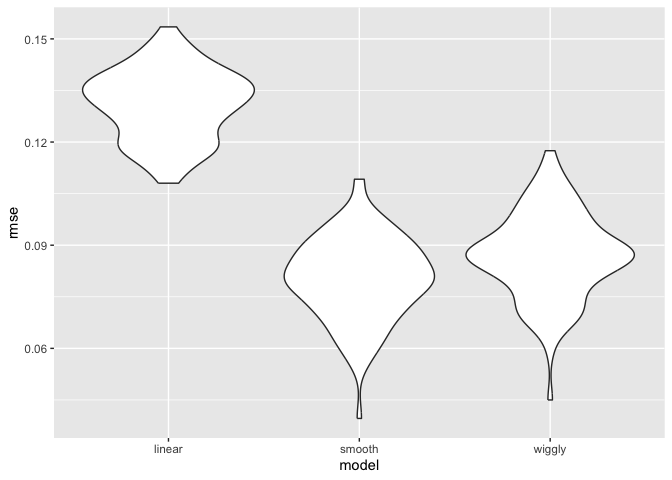
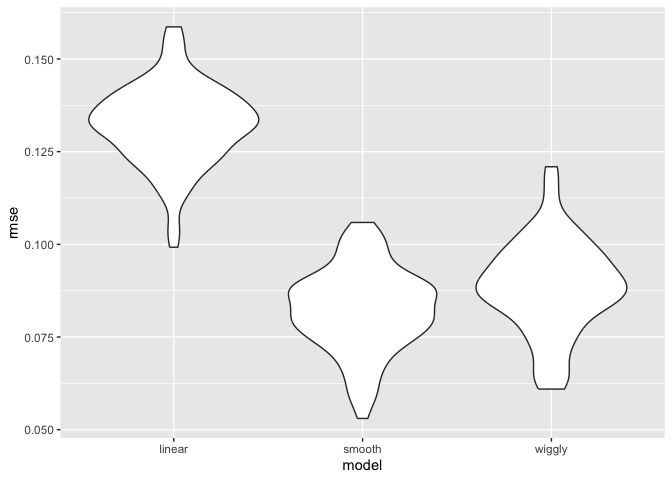
Annotated script with inline hash comments

diff --git a/02_cross_validation.md b/02_cross_validation.md
@@ -19,8 +19,8 @@ library(tidyverse)
 
 ``` r
 library(p8105.datasets)
-library(modelr)
-library(mgcv)
+library(modelr)          # add_predictions(), rmse(), crossv_mc()
+library(mgcv)            # gam() for smooth, nonlinear models
 ```
 
     ## Loading required package: nlme
@@ -40,10 +40,10 @@ data("lidar")
 
 lidar_df = 
   lidar |> 
-  mutate(id = row_number()) |> 
-  select(id, everything())
+  mutate(id = row_number()) |>             # give each row an id, so training and testing rows can be matched later
+  select(id, everything())                 # move id to the first column
 
-lidar_df |> 
+lidar_df |>                                # a clearly nonlinear relationship, which makes a good test case for comparing models
   ggplot(aes(x = range, y = logratio)) + 
   geom_point()
 ```
@@ -53,14 +53,14 @@ lidar_df |>
 Building Training and Testing Datasets
 
 ``` r
-train_df = sample_frac(lidar_df, size = .8)
-test_df  = anti_join(lidar_df, train_df, by = "id")
+train_df = sample_frac(lidar_df, size = .8)           # random 80% of rows for training (newer equivalent: slice_sample(prop = .8))
+test_df  = anti_join(lidar_df, train_df, by = "id")   # the remaining 20%: rows whose id is NOT in train_df
 ```
 
 ``` r
-ggplot(train_df, aes(x = range, y = logratio)) + 
+ggplot(train_df, aes(x = range, y = logratio)) +    # training data in black
   geom_point() + 
-  geom_point(data = test_df, color = "red")
+  geom_point(data = test_df, color = "red")         # testing data in red
 ```
 
 ![](02_cross_validation_files/figure-gfm/unnamed-chunk-4-1.png)<!-- -->
@@ -68,26 +68,27 @@ ggplot(train_df, aes(x = range, y = logratio)) +
 Fit Some Models
 
 ``` r
-linear_mod = lm(logratio ~ range, data = train_df)
-smooth_mod = gam(logratio ~ s(range), data = train_df)
-wiggly_mod = gam(logratio ~ s(range, k = 30), sp = 10e-6, data = train_df)
+linear_mod = lm(logratio ~ range, data = train_df)                           # a straight line: too simple for this curve
+smooth_mod = gam(logratio ~ s(range), data = train_df)                       # s() fits a smooth curve; gam() picks how smooth automatically
+wiggly_mod = gam(logratio ~ s(range, k = 30), sp = 10e-6, data = train_df)   # k = 30 allows a very flexible curve and a tiny sp (smoothing
+                                                                             # parameter) forces it to chase noise: deliberately overfit
 ```
 
 Make a Plot
 
 ``` r
 train_df |>
-  add_predictions(linear_mod) |>               # shows fitted data points and lines that go through them
+  add_predictions(linear_mod) |>               # adds a `pred` column with the model's prediction for each row
   ggplot(aes(x = range, y = logratio)) +
   geom_point() +
-  geom_line(aes(y = pred), color = "red")
+  geom_line(aes(y = pred), color = "red")      # red line connects the predictions (the fitted model)
 ```
 
 ![](02_cross_validation_files/figure-gfm/unnamed-chunk-6-1.png)<!-- -->
 
 ``` r
 train_df |>
-  add_predictions(smooth_mod) |>               # smooth_mod [...]
+  add_predictions(smooth_mod) |>               # same plot for the smooth model, which follows the data's curve
   ggplot(aes(x = range, y = logratio)) +
   geom_point() +
   geom_line(aes(y = pred), color = "red")
@@ -98,22 +99,24 @@ train_df |>
 Do a Model Comparison
 
 ``` r
+# RMSE (root mean squared error) on the TESTING data: how far predictions are from new
+# observations, on average. Lower is better.
 rmse(linear_mod, test_df)
 ```
 
-    ## [1] 0.1212343
+    ## [1] 0.1338127
 
 ``` r
 rmse(smooth_mod, test_df)
 ```
 
-    ## [1] 0.06814752
+    ## [1] 0.08407828
 
 ``` r
 rmse(wiggly_mod, test_df)
 ```
 
-    ## [1] 0.07328329
+    ## [1] 0.1029337
 
 ## Repeat Multiple Times
 
@@ -121,9 +124,9 @@ Use Nice Tools
 
 ``` r
 cv_df =
-  crossv_mc(lidar_df, 100)
+  crossv_mc(lidar_df, 100)   # 100 random 80/20 training/testing splits ("Monte Carlo" cross-validation)
 
-cv_df |> pull(train) |> nth(2) |> as_tibble()    # `nth()` restores row numbers initially, leaves out 1 and 4 in second instance; gives 80-20 split every time
+cv_df |> pull(train) |> nth(2) |> as_tibble()    # inspect the 2nd training set. Splits are stored as "resample" objects (lists of row
 ```
 
     ## # A tibble: 176 × 3
@@ -131,9 +134,9 @@ cv_df |> pull(train) |> nth(2) |> as_tibble()    # `nth()` restores row numbers 
     ##    <int> <dbl>    <dbl>
     ##  1     1   390  -0.0504
     ##  2     2   391  -0.0601
-    ##  3     3   393  -0.0419
-    ##  4     4   394  -0.0510
-    ##  5     5   396  -0.0599
+    ##  3     4   394  -0.0510
+    ##  4     5   396  -0.0599
+    ##  5     6   397  -0.0284
     ##  6     7   399  -0.0596
     ##  7     8   400  -0.0399
     ##  8     9   402  -0.0294
@@ -142,10 +145,14 @@ cv_df |> pull(train) |> nth(2) |> as_tibble()    # `nth()` restores row numbers 
     ## # ℹ 166 more rows
 
 ``` r
+                                                 # numbers, to save memory); as_tibble() turns one back into a regular dataframe
+```
+
+``` r
 cv_df =
   crossv_mc(lidar_df, 100) |>
   mutate(
-    train = map(train, as_tibble),
+    train = map(train, as_tibble),   # convert every split to a tibble, since some model functions (like gam) don't accept resample objects
     test = map(test, as_tibble)
   )
 ```
@@ -153,6 +160,7 @@ cv_df =
 Let’s Fit Models and Get RMSEs for These
 
 ``` r
+# A small wrapper around rmse(). It isn't used below, since map2_dbl() calls rmse() directly
 rmse_comp = function(model, dataset) {
   
   rmse(model, dataset)
@@ -164,11 +172,13 @@ rmse_comp = function(model, dataset) {
 cv_df = 
   cv_df |> 
   mutate(
+    # fit each model to each of the 100 training sets; \(df) is shorthand for function(df)
     linear_fit = map(train, \(df) lm(logratio ~ range, data = df)),
     smooth_fit = map(train, \(df) gam(logratio ~ s(range), data = df)),
     wiggly_fit = map(train, \(df) gam(logratio ~ s(range, k = 30), sp = 10e-6, data = df))
   ) |> 
   mutate(
+    # map2_dbl() pairs each model with its matching testing set and returns one RMSE (a number) per split
     rmse_linear = map2_dbl(linear_fit, test, rmse),
     rmse_smooth = map2_dbl(smooth_fit, test, rmse),
     rmse_wiggly = map2_dbl(wiggly_fit, test, rmse)
@@ -179,15 +189,15 @@ Look at This
 
 ``` r
 cv_df |>
-  select(starts_with("rmse_")) |>
-  pivot_longer(
+  select(starts_with("rmse_")) |>   # keep only the RMSE columns
+  pivot_longer(                     # long format: one row per split x model
     everything(),
     names_to = "model",
-    names_prefix = "rmse_",
+    names_prefix = "rmse_",         # strip the prefix so model = "linear", "smooth", or "wiggly"
     values_to = "rmse"
   ) |>
   ggplot(aes(x = model, y = rmse)) +
-  geom_violin()
+  geom_violin()                     # RMSE distribution across the 100 splits: lower and tighter means better prediction
 ```
 
 ![](02_cross_validation_files/figure-gfm/unnamed-chunk-12-1.png)<!-- -->
@@ -198,8 +208,8 @@ cv_df |>
 growth_df =
   read_csv("data/nepalese_children.csv") |>
   mutate(
-    weight_ch7 = (weight > 7) * (weight - 7)
-  )
+    weight_ch7 = (weight > 7) * (weight - 7)   # piecewise term: (weight > 7) is TRUE/FALSE, which multiplies as 1/0. So it's 0 at or
+  )                                            # below 7 kg and (weight - 7) above it, letting the slope change at 7 kg
 ```
 
     ## Rows: 2705 Columns: 5
@@ -213,7 +223,7 @@ growth_df =
 Look at This
 
 ``` r
-growth_df    # weight as a predictor
+growth_df    # outcome: armc (arm circumference); predictor: weight
 ```
 
     ## # A tibble: 2,705 × 6
@@ -240,9 +250,9 @@ growth_df |>
 ![](02_cross_validation_files/figure-gfm/unnamed-chunk-14-1.png)<!-- -->
 
 ``` r
-linear_fit = lm(armc ~ weight, data = growth_df)
-pwl_fit = lm(armc ~ weight + weight_ch7, data = growth_df)
-smooth_fit = gam(armc ~ s(weight), data = growth_df)
+linear_fit = lm(armc ~ weight, data = growth_df)               # one straight line
+pwl_fit = lm(armc ~ weight + weight_ch7, data = growth_df)     # piecewise linear: two connected segments that bend at 7 kg
+smooth_fit = gam(armc ~ s(weight), data = growth_df)           # smooth curve
 ```
 
 ``` r
@@ -257,7 +267,7 @@ growth_df |>
 
 ``` r
 growth_df |>
-  add_predictions(pwl_fit) |>                  # piece-wise linar model
+  add_predictions(pwl_fit) |>                  # piecewise linear model
   ggplot(aes(x = weight, y = armc)) +
   geom_point(alpha = .5) +
   geom_line(aes(y = pred), color = "red")
@@ -269,7 +279,7 @@ Conducting all the CV Covered
 
 ``` r
 cv_df =
-  crossv_mc(growth_df, 100) |>
+  crossv_mc(growth_df, 100) |>       # 100 random training/testing splits of the growth data
   mutate(
     train = map(train, as_tibble),
     test = map(test, as_tibble)
@@ -296,7 +306,7 @@ cv_df =
 Plotting
 
 ``` r
-cv_df |> 
+cv_df |>                             # compare prediction error across the three models
   select(starts_with("rmse_")) |> 
   pivot_longer(
     everything(),
